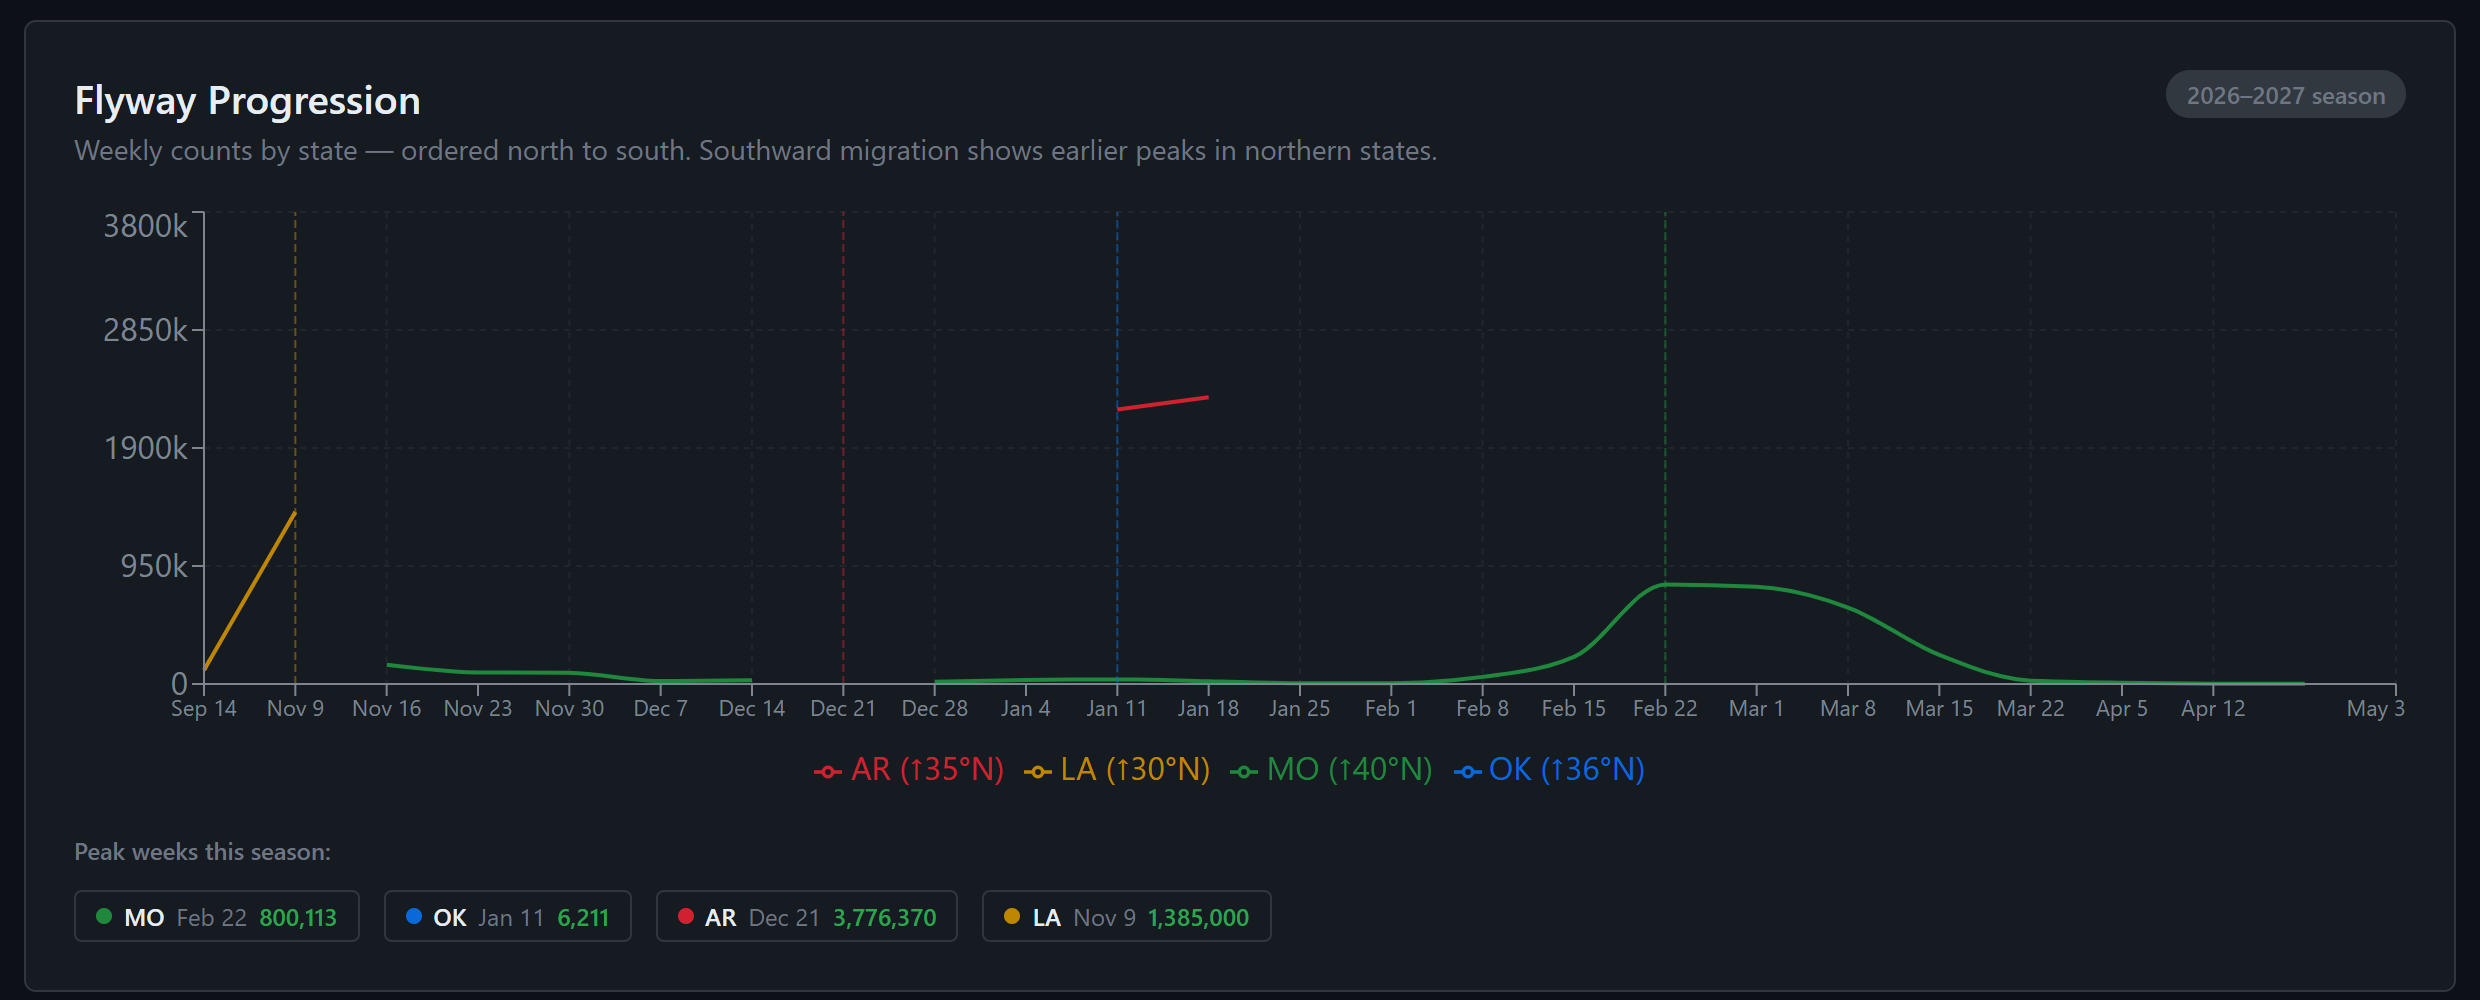
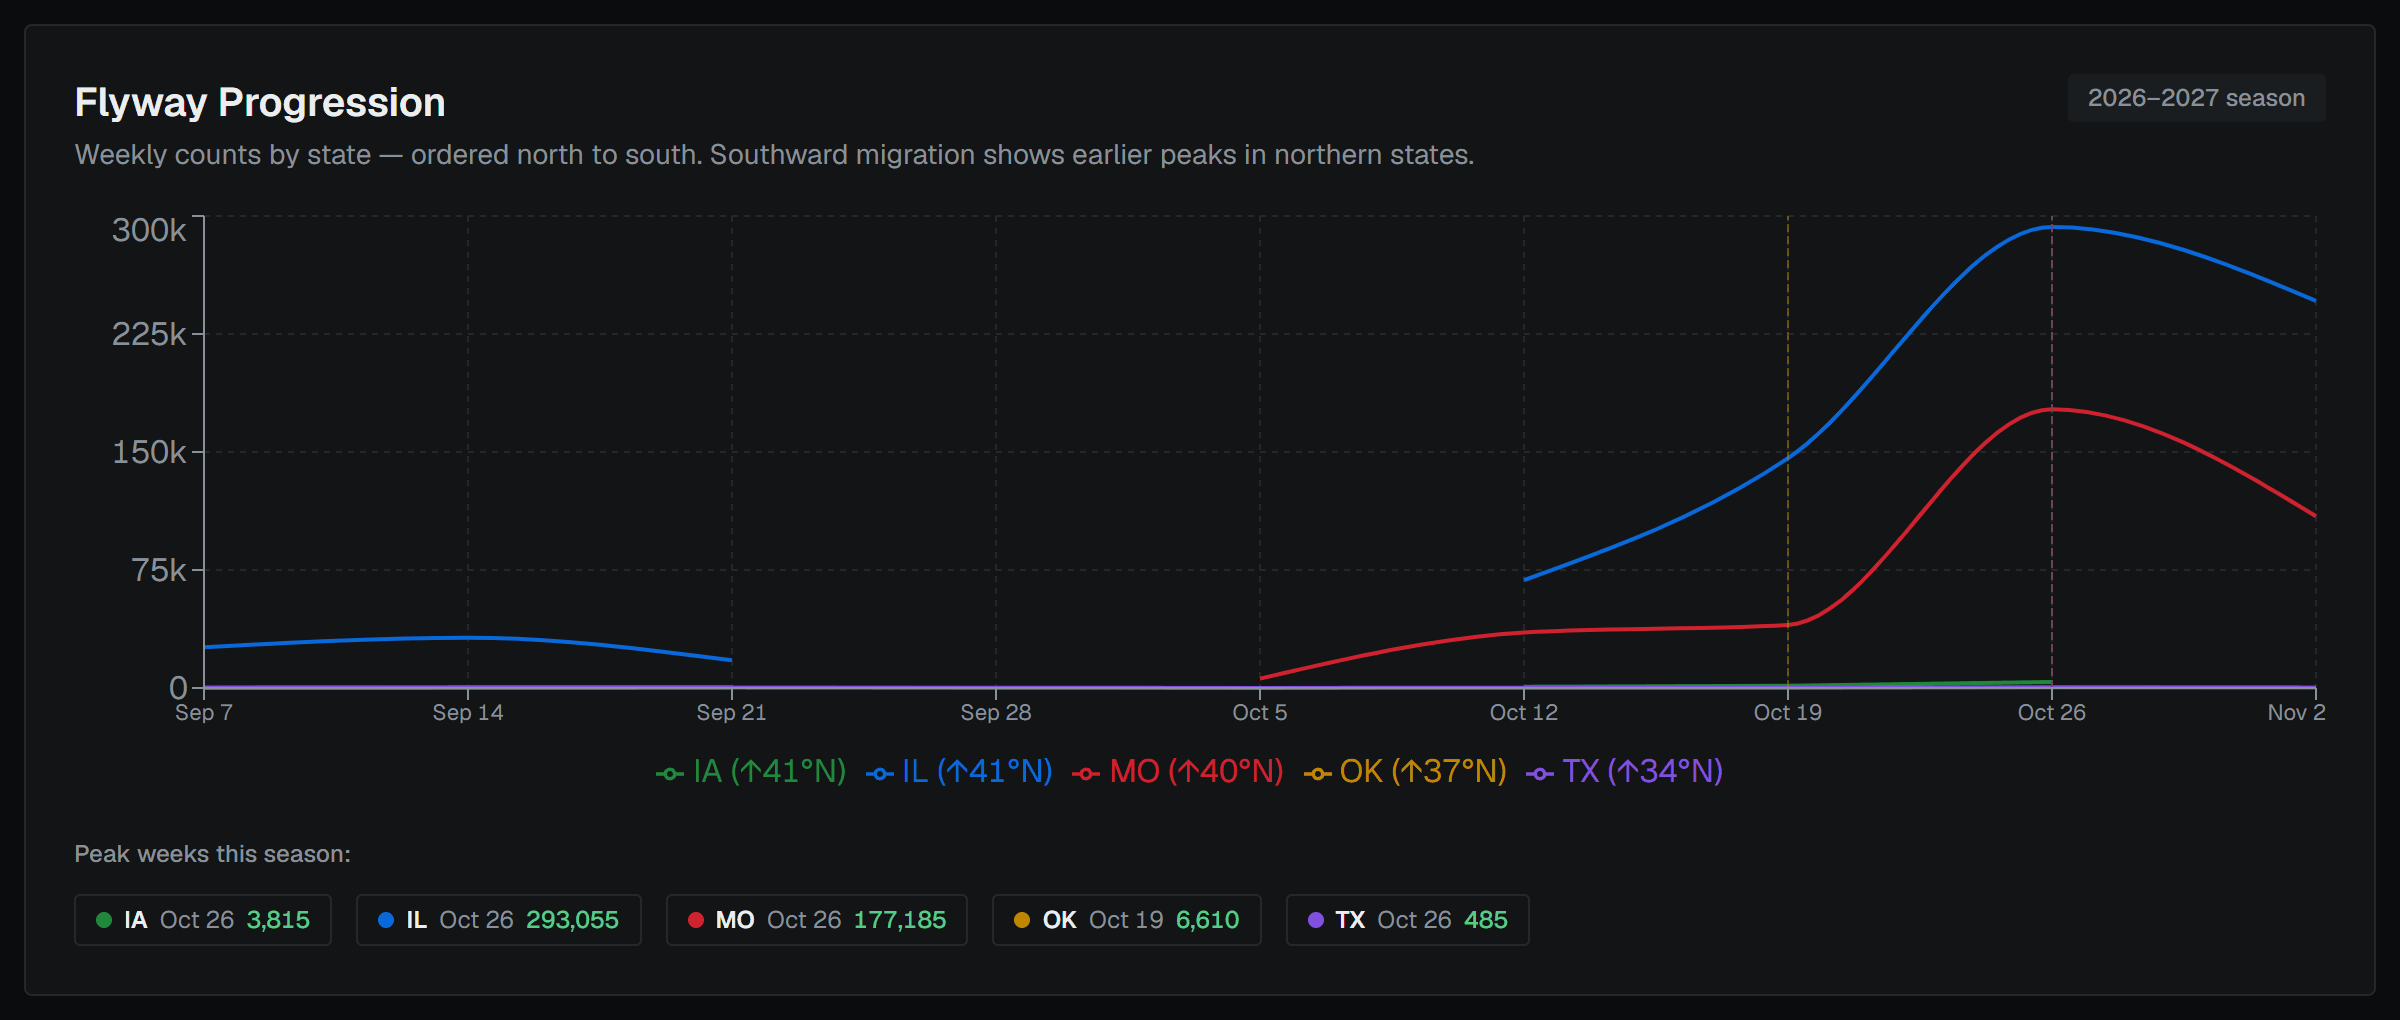
Update the README screenshots for the redesign and the season map
New screenshots from huntstack.net in the current design: the season map leads,
then the Migration dashboard, Where to Hunt, Texas regulations, the conditions
report and Flyway Progression. The README now describes the season map, lists
seasons and zones for all nine states (licenses for six), the zone-shape
sources and the /ebird-map route.

diff --git a/README.md b/README.md
@@ -46,7 +46,7 @@
 </p>
 
 <p align="center">
-  <img src=".github/screenshots/migration.png" alt="The migration dashboard: refuge activity by state on the flyway map, with this weekend's call" width="100%">
+  <img src=".github/screenshots/map.png" alt="The season map on December 10: duck zones shaded open, special or closed, with survey sites, eBird hotspots and the Missouri South Zone's seasons" width="100%">
 </p>
 
 ## Introduction
@@ -57,14 +57,17 @@ reports. It pulls federal and state aerial surveys, eBird sightings, NOAA
 weather and state regulations into one structured dataset, and answers the
 question that matters before a hunt: *where should I go this weekend?*
 
-It does not try to be a map. OnX, HuntStand and BaseMap own in-field
-navigation. **HuntStack tells you where to hunt; OnX helps you get there.**
+It does not try to be a navigation app. OnX, HuntStand and BaseMap own the
+field; HuntStack's season map is for planning, with no GPS, offline maps or
+property lines. **HuntStack tells you where to hunt; OnX helps you get there.**
 
-It covers waterfowl in the Central and Mississippi Flyways: season rules for
-TX, NM, AR, LA, KS and OK, and bird counts for those states plus MO, IL and IA.
+It covers waterfowl in the Central and Mississippi Flyways: seasons, zones and
+bird counts for TX, NM, AR, LA, KS, OK, MO, IL and IA, and license rules for
+the first six.
 
 HuntStack has been live at **[huntstack.net](https://huntstack.net)** since
-v1.0.0 (November 2026), on desktop and phone browsers.
+v1.0.0 (November 2026), on desktop and phone browsers. v1.1.0 added the season
+map.
 
 > [!IMPORTANT]
 > Season dates, bag limits and bird counts are informational and may be out of
@@ -74,25 +77,32 @@ v1.0.0 (November 2026), on desktop and phone browsers.
 ## Features
 
 <p align="center">
-  <img width="49%" src=".github/screenshots/where-to-hunt.png" alt="Where to Hunt: refuges ranked by opportunity score, with the breakdown on each card"/>
+  <img width="49%" src=".github/screenshots/migration.png" alt="The migration dashboard: survey sites and eBird places by state on the flyway map, the snapshot, this weekend's call and the season comparison"/>
 &nbsp;
-  <img width="49%" src=".github/screenshots/flyway.png" alt="Flyway progression: weekly counts by state, ordered north to south"/>
+  <img width="49%" src=".github/screenshots/where-to-hunt.png" alt="Where to Hunt: places ranked by opportunity score, with access notes, season status, conditions and the score breakdown on each card"/>
 </p>
 
 <p align="center">
-  <img width="49%" src=".github/screenshots/regulations.png" alt="Texas regulations: 2026–2027 goose seasons, dates, bag limits and restrictions"/>
+  <img width="49%" src=".github/screenshots/regulations.png" alt="Texas regulations: 2026–2027 goose seasons by zone, with dates, bag limits and what is open today"/>
 &nbsp;
   <img width="49%" src=".github/screenshots/report.png" alt="The shareable migration conditions report"/>
 </p>
 
+<p align="center">
+  <img width="98%" src=".github/screenshots/flyway.png" alt="Flyway progression: weekly counts by state this season, ordered north to south"/>
+</p>
+
 <table>
+  <tr>
+    <td colspan="2"><b>Season map</b> (<code>/map</code>)<br>Season zones for all nine states, shaded open, special season only or closed for the day you pick, for ducks or geese; step through the season day by day or with a slider. Tap a zone for its seasons, bag limits, agency links and the state's eBird activity. On top: survey sites, every eBird hotspot with a duck or goose report in the last 14 days, the eBird areas HuntStack watches, and hunter reports. Map or satellite, light or dark.</td>
+  </tr>
   <tr>
     <td width="50%"><b>Migration</b> (<code>/migration</code>)<br>Refuge and aerial survey counts with week-over-week change and species trends, survey sites and eBird places on the map, flyway arrows, a season-to-date comparison and an AI-written weekly summary. Old surveys are labeled as old, never shown as current.</td>
     <td width="50%"><b>Where to Hunt</b> (<code>/where-to-hunt</code>)<br>Enter a species and a city, zip or GPS fix, and get public hunting areas ranked by recent bird counts, migration status, push factors, open seasons, weather and distance, with the score broken down on every card.</td>
   </tr>
   <tr>
     <td><b>AI hunting guide</b> (<code>/chat</code>)<br>Ask <i>"When does teal season open in Arkansas?"</i> or <i>"Where are the snow geese right now?"</i> Each question searches the web, then adds HuntStack's season records, survey counts, eBird reports and saved agency documents. Answers cite their sources, and the season records win on dates and bag limits.</td>
-    <td><b>Regulations and licenses</b> (<code>/regulations</code>)<br>Seasons by zone, bag limits, shooting hours, stamps and license prices for TX, NM, AR, LA, KS and OK, from the agencies' own data, with a side-by-side state comparison.</td>
+    <td><b>Regulations and licenses</b> (<code>/regulations</code>)<br>Seasons by zone, bag limits and shooting hours for TX, NM, AR, LA, KS, OK, MO, IL and IA, and stamps and license prices for the first six, from the agencies' own data, with a side-by-side state comparison.</td>
   </tr>
   <tr>
     <td><b>Push factors and eBird activity</b><br>Cold fronts, north winds and freezing temperatures from NOAA, scored per state and for regions such as the Texas Panhandle. eBird places and birds per state over the last 14 days, with trends from daily snapshots.</td>
@@ -205,7 +215,8 @@ their own.
 | TPWD midwinter survey, incl. High Plains series | TX | TPWD workbooks | annual |
 | USFWS Midwinter Waterfowl Inventory | KS, NM, OK, TX (to 2024); AR, LA (to 2016) | Central Flyway report | annual |
 | eBird (Cornell Lab) | all covered states | statewide reports by species, sightings near each refuge, and eBird-only areas (Texas Panhandle and South Plains, Arkansas refuges and WMAs, Cheyenne Bottoms KS) | live; saved in the database and refreshed every 6 hours |
-| State agencies | TX, NM, AR, LA, KS, OK | seasons, licenses and regulation documents | each season |
+| State agencies | TX, NM, AR, LA, KS, OK; MO, IL, IA (seasons only) | seasons, licenses and regulation documents | each season |
+| Zone shapes | all nine states | TPWD, KDWP and MDC zone layers, the USFWS flyway boundary, Census roads, states and counties (`scripts/zones`) | each season |
 | NOAA | all | forecasts, alerts and push factors | live |
 
 eBird reports are the latest sighting of each species at each place, not survey
@@ -269,7 +280,7 @@ huntstack/
 |---|---|
 | `GET /api/health` · `/api/health/ready` | status and database readiness |
 | `GET /api/refuges` · `/coverage` · `/:id/counts` · `/migration/dashboard` | refuges, survey coverage, count history, the migration dashboard |
-| `GET /api/migration/push-factors` · `/weekly-summary` · `/flyway-progression` · `/regional-activity` | push factors, the AI weekly summary, weekly counts north to south, eBird activity per state |
+| `GET /api/migration/push-factors` · `/weekly-summary` · `/flyway-progression` · `/regional-activity` · `/ebird-map` | push factors, the AI weekly summary, weekly counts north to south, eBird activity per state, eBird hotspots for the season map |
 | `GET /api/hunt/recommendations` | ranked hunting areas by species and location |
 | `GET /api/regulations/states` · `/:state` · `/:state/seasons` · `/:state/licenses` | regulations, seasons and licenses |
 | `GET /api/species` · `/:id` · `/:id/regulations` · `/:id/migration` | the species catalog |
@@ -363,7 +374,8 @@ files in `scripts/`, run against the database before the code that needs them.
 - [x] Push factors from NOAA, including regional scores
 - [x] Where to Hunt: scored recommendations
 - [x] AI chat with web search and HuntStack data
-- [x] Regulations and licenses for TX, NM, AR, LA, KS and OK, 2026–27 seasons from agency data
+- [x] Regulations and licenses for TX, NM, AR, LA, KS and OK, 2026–27 seasons from agency data (MO, IL and IA seasons added in v1.1.0)
+- [x] Season map: zones open or closed by day, survey sites, eBird hotspots, hunter reports (v1.1.0)
 - [x] Outfitter directory, self-service listings and admin review
 - [x] Hunter field reports
 - [x] Accounts, question allowance, HuntStack Pro on Stripe, own AI keys
